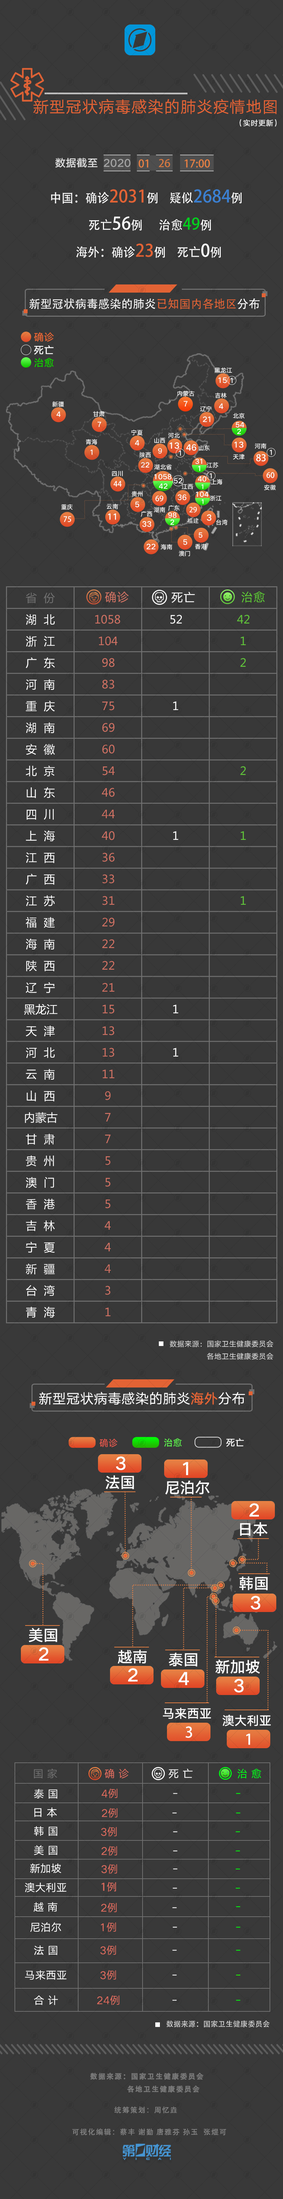
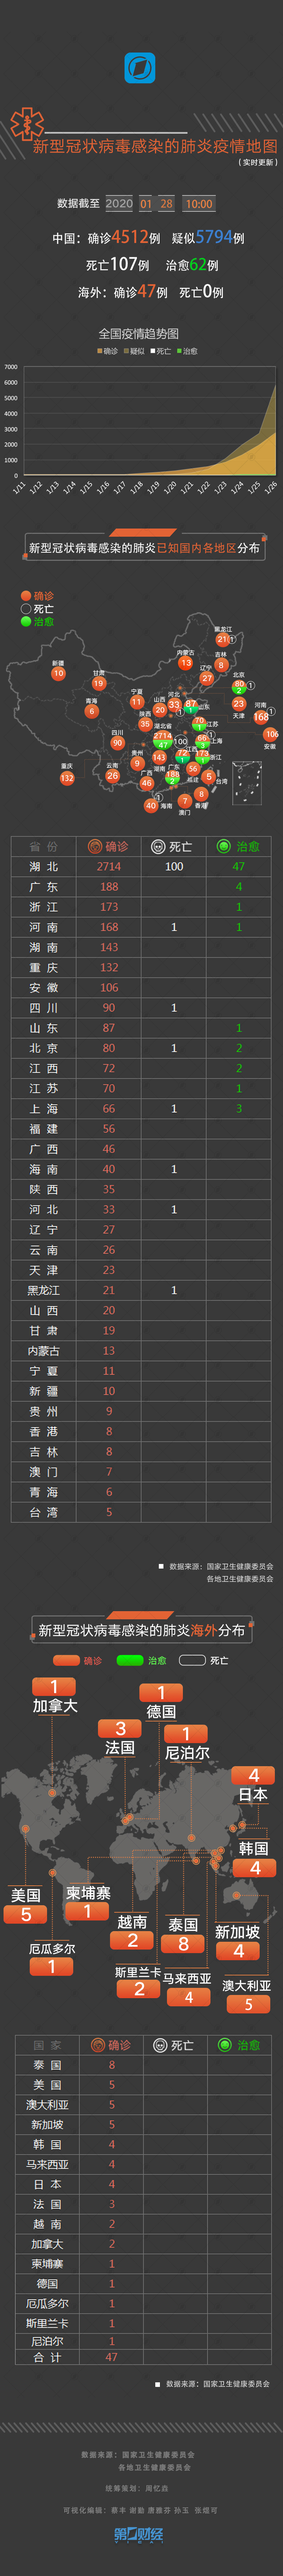
[master]-数据更新

Changed region(s): [[0.0, 0.0, 1.0, 0.9961], [0.0312, 0.249, 0.0625, 0.2802]]

diff --git a/special/index.js b/special/index.js
@@ -29,7 +29,7 @@
 
 /********************* 分界线 ****************************************************/
 
-// 疫情信息离线版
+// 疫情信息静态化
 
 let fs = require('fs'),
 	listOfData = [],

diff --git a/special/README.md b/special/README.md
@@ -1,5 +1,67 @@
 # 疫情信息离线版本
 
+![](./active.jpg)
+
+**2020-01-28 10:00:01**
+> 截至1月27日24时，湖南省报告新型冠状病毒感染的肺炎新增确诊病例43例，累计确诊病例143例。
+
+**2020-01-28 09:32:10**
+> 江苏省报告新型冠状病毒感染的肺炎新增确诊病例23例，累计确诊病例70例，出院病例1例。
+
+**2020-01-28 09:05:47**
+> 湖北省新增新型冠状病毒感染的肺炎病例1291例，死亡24例。全省累计确诊肺炎病例2714例，治愈出院47例，死亡100例。
+
+**2020-01-28 08:49:17**
+> 江苏省报告新型冠状病毒感染的肺炎新增确诊病例23例，累计确诊病例70例。
+
+**2020-01-28 08:48:38**
+> 截至1月27日24时，山东省累计报告新型冠状病毒感染的肺炎确诊病例87例。
+
+**2020-01-28 08:25:26**
+> 河南省新增确诊病例40例 累计168例。
+
+**2020-01-28 08:21:02**
+> 广西新增确诊病例5例，累计51例。
+
+**2020-01-28 08:17:35**
+> 截至1月27日24时，上海市新增新型冠状病毒感染的肺炎确诊病例13例。上海市累计发现确诊病例66例。
+
+**2020-01-28 03:10:53**
+> 江西新增新型冠状病毒肺炎确诊病例24例，累计确诊72例，出院2例。
+
+**2020-01-28 00:20:53**
+> 加拿大确诊第二例新型冠状病毒感染肺炎病例，为首名患者妻子。
+
+**2020-01-28 00:03:53**
+> 天津新型冠状病毒感染的肺炎确诊病例增至23例。
+
+**2020-01-27 23:30:39**
+> 深圳“新型肺炎”患者痊愈增至4人，其中三位痊愈者是一家人。
+
+**2020-01-27 23:20:21**
+> 北京新增8例新型冠状病毒感染的肺炎病例，累计确诊病例80例，出现首例死亡患者。
+
+**2020-01-27 20:42:17**
+> 柬埔寨确诊首例新型冠状病毒感染的肺炎病例。
+
+**2020-01-27 19:02:24**
+> 广东新增5例病例
+
+**2020-01-27 18:34:23**
+> 云南确诊病例增至26例
+
+**2020-01-27 15:10:43**
+> 北京新增4例确诊病例
+
+**2020-01-27 13:01:03**
+> 海南省出现首例新冠肺炎死亡病例，系80岁来自武汉女子，基础疾病为脑梗，并瘫痪在床。
+
+**2020-01-27 12:36:18**
+> 江西首例治愈新型冠状病毒感染肺炎患者出院。医生表示，该患者此前已为病危状态，按照国家诊疗指南进行治疗后，已于22日停止发烧。
+
+**2020-01-27 11:54:04**
+> 山东首例确诊新型冠状病毒肺炎病例已临床治愈。
+
 **2020-01-27 11:16:54**
 > 1月27日农历正月初三，受习近平委托，李克强来到武汉，考察指导疫情防控工作，看望慰问患者和奋战在一线的医护人员。
 
@@ -370,10 +432,10 @@
 > 新加坡卫生部23号晚上确认，新加坡确认首例新型冠状病毒病例。患者是一位66岁男子。
 
 **2020-01-23 18:00:00**
-> 经陕西省省级医疗救治专家组会商，确认3例输入性新型冠状病毒感染的肺炎确诊病例。
+> 1月23日，新疆维吾尔自治区卫生健康委首次确认我区2例新型冠状病毒感染的肺炎确诊病例。
 
 **2020-01-23 18:00:00**
-> 1月23日，新疆维吾尔自治区卫生健康委首次确认我区2例新型冠状病毒感染的肺炎确诊病例。
+> 经陕西省省级医疗救治专家组会商，确认3例输入性新型冠状病毒感染的肺炎确诊病例。
 
 **2020-01-23 17:50:00**
 > 北京市卫健委消息，截至今日14时本市新增8例新型冠状病毒感染的肺炎病例，累计病例22人。
@@ -418,10 +480,10 @@
 > 1月22日0-24时，广东省报告新增确诊病例6例。累计32例。广州5例、深圳15例、珠海4例、佛山1例、韶关2例、惠州1例、中山1例、湛江2例、肇庆1例
 
 **2020-01-23 10:19:00**
-> 四川省新增3例确诊病例。截止1月23日8时，累计确诊8例（成都4例、绵阳2例、广安1例、达州1例），疑似病例4 例。
+> 山东卫健委：1月22日0—24时，山东省新增确诊病例4例。截至1月22日24时，累计确诊6例。其中：青岛市3例、威海市1例、临沂市2例。
 
 **2020-01-23 10:19:00**
-> 山东卫健委：1月22日0—24时，山东省新增确诊病例4例。截至1月22日24时，累计确诊6例。其中：青岛市3例、威海市1例、临沂市2例。
+> 四川省新增3例确诊病例。截止1月23日8时，累计确诊8例（成都4例、绵阳2例、广安1例、达州1例），疑似病例4 例。
 
 **2020-01-23 10:12:00**
 > 澳门确诊第2例新型肺炎病例，系武汉游客。

diff --git a/README.md b/README.md
@@ -3,7 +3,8 @@
 
 - 传染源：野生动物
 - 病毒：新型冠状病毒2019-nCoV
-- 传播途径：存在人传人、医务人员感染、一定范围内传播
+- 传播途径：经呼吸道飞沫传播，亦可通过接触传播，存在医务人员感染
+- 易感人群：人群普遍易感。老年人及有基础疾病者感染后病情较重，儿童及婴幼儿也有发病
 - 潜伏期：1~14天均有，平均10天，潜伏期内存在传染性
 - 感染的临床表现：发热、乏力、呼吸道症状以干咳为主、逐渐出现呼吸困难
 
@@ -35,7 +36,8 @@
 - [第一财经疫情地图](https://m.yicai.com/news/100476965.html)
 - [腾讯新闻疫情实时追踪](https://news.qq.com/zt2020/page/feiyan.htm)
 - [凤凰网疫情实时动态](https://news.ifeng.com/c/special/7tPlDSzDgVk)
-- [疫情信息离线版本](./special/README.md)
+- [梅斯疫情实时动态](https://m.medsci.cn/wh.asp)
+- [疫情信息静态化](./special/README.md)
 
 ## 辟谣
 [较真查证平台-腾讯新闻](https://vp.fact.qq.com/home)
@@ -46,10 +48,9 @@
 #### 一、防护措施
 [防护知识合辑-丁香医生](https://mp.weixin.qq.com/s/UkWbqzKRe2DITz2nS6-XvQ)
 
-> 出门戴口罩（首选医用外科口罩、N95口罩），[勤洗手](https://mp.weixin.qq.com/s?__biz=MjA1ODMxMDQwMQ==&mid=2657273187&idx=5&sn=7abd6d8bff45341c85bd88575e034c9f&chksm=4906c10d7e71481b5c82ff09e384e0e3118e28bc59f036b290a481eb8b4b64f78822ff5fc3d8&scene=21#wechat_redirect)，
-避免近距离接触有流感症状的人，
-避免近距离接触野生动物，
-不随地吐痰，咳嗽或打喷嚏时用纸巾或肘关节掩住口鼻，
+> 出门戴口罩（首选医用外科口罩、N95口罩），[勤洗手](https://mp.weixin.qq.com/s?__biz=MjA1ODMxMDQwMQ==&mid=2657273187&idx=5&sn=7abd6d8bff45341c85bd88575e034c9f&chksm=4906c10d7e71481b5c82ff09e384e0e3118e28bc59f036b290a481eb8b4b64f78822ff5fc3d8&scene=21#wechat_redirect)，<br />
+避免近距离接触有流感症状的人，避免近距离接触野生动物，<br />
+不随地吐痰，咳嗽或打喷嚏时用纸巾或肘关节掩住口鼻，<br />
 待在家里，不去人多的地方，不去聚会。
 
 视频教学：
@@ -93,7 +94,9 @@
 </table>
 
 ## 视频
+- [武汉UP主实拍：医院、医生、武汉人生活的情况](https://www.bilibili.com/video/av85319402)
 - [武汉UP实拍，封城后的24小时](https://www.bilibili.com/video/av84850049)
+- [【半佛】冠状病毒来源已确凿！别再乱吃野生动物了。](https://www.bilibili.com/video/av84792132)
 - [白岩松访钟南山：新型肺炎疫情如何防控](https://v.qq.com/x/cover/mzc00200oqqk983/v00336kuxnm.html)
 
 ## 相关新闻话题
